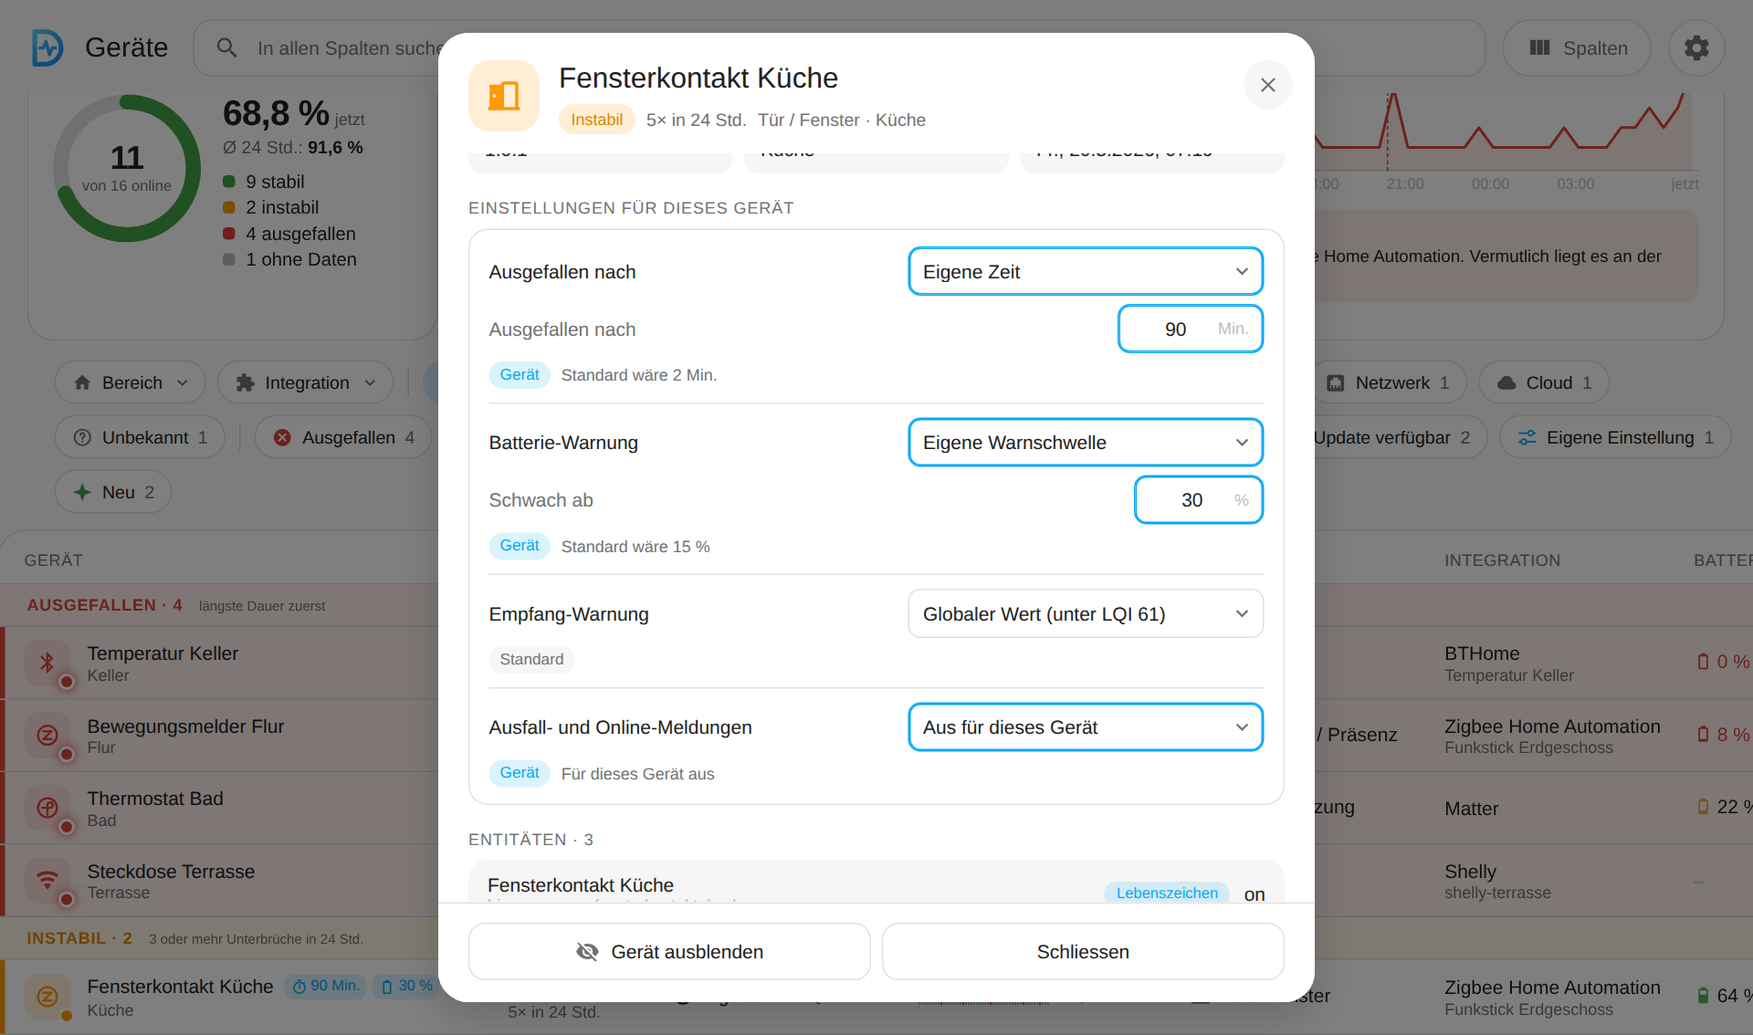
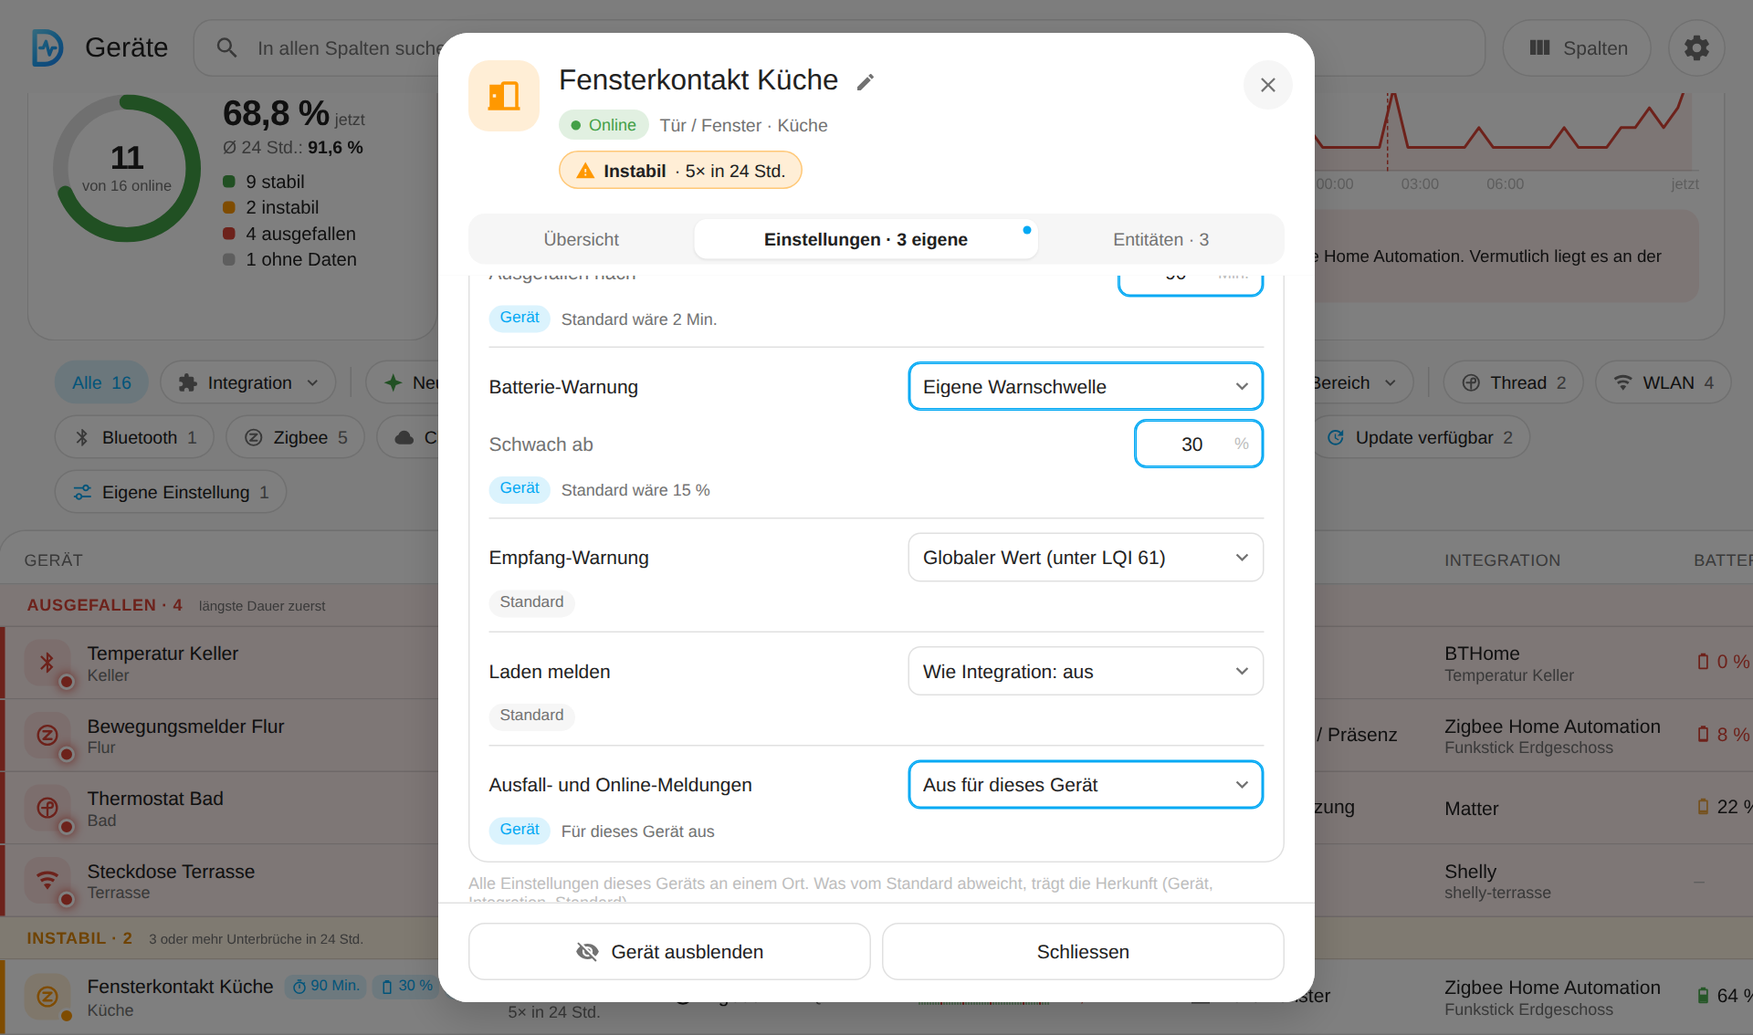
1.37.0: Reiter im Geräte-Popup (Übersicht, Einstellungen, Entitäten)
- Popup mit drei Reitern (Mockups popup-tabs-log-v1, R3): Übersicht zum Lesen
  (Typ und Verbindungsart als Text), Einstellungen (Typ, Verbindungsart und
  alle Einstellungen des Geräts, Zähler eigener Einstellungen mit Punkt) und
  Entitäten. Das Popup öffnet immer auf der Übersicht; die Reiter bleiben
  beim Scrollen unter dem Kopf haften.
- Tests tippen zuerst auf den Reiter; neue Prüfungen für Reiter und Zähler.
- README-Bilder popup, popup-mobile, device-settings neu; CHANGELOG, README,
  HANDOVER nachgeführt.

Claude-Session: https://claude.ai/code/session_01U1q7hu4Br2u4E6fFdEJMgU

diff --git a/custom_components/device_panel/panel/device-panel.js b/custom_components/device_panel/panel/device-panel.js
@@ -514,6 +514,19 @@ function orderConns(entries, order) {
 // von Hand zählt nicht dazu (Entscheid des Nutzers).
 // Seit 0.17.0 zählt auch die Verbindungsart von Hand (Wunsch des Nutzers:
 // so lässt sie sich gesammelt bereinigen).
+// Anzahl eigener Einstellungen des Geräts (Zähler am Reiter "Einstellungen"): jede Wahl, die vom Standard abweicht.
+const devOwnCount = (d) =>
+  [
+    d.type_manual,
+    d.connection_manual,
+    d.offline_setting != null,
+    d.battery_setting != null,
+    d.signal_setting != null,
+    d.charge_setting != null,
+    d.charge_full_setting != null,
+    d.charge_rise_setting != null,
+    d.notify_off || (d.notify_mute_until && Date.parse(d.notify_mute_until) > Date.now()),
+  ].filter(Boolean).length;
 const hasOverride = (d) => d.offline_setting != null || d.battery_setting != null || Boolean(d.notify_off) || Boolean(d.connection_manual) || d.signal_setting != null;
 
 const defaultView = () => ({
@@ -2914,6 +2927,7 @@ class DevicePanel extends HTMLElement {
     if (!dlg || !id) return;
     this._closeStat();
     this._detailId = id;
+    this._devTab = "ov";
     this._detail = null;
     this._renderDevice();
     if (!dlg.open) {
@@ -2921,7 +2935,15 @@ class DevicePanel extends HTMLElement {
       else dlg.setAttribute("open", "");
     }
     dlg.scrollTop = 0;
+    this._stickDevTabs(dlg);
     this._loadDetail(true);
+  }
+
+  // Die Reiter bleiben unter dem Kopf haften: Höhe des Kopfes als Abstand (je nach Warnungen und Namen verschieden;
+  // bei geschlossenem Dialog ist sie 0, darum auch nach dem Öffnen messen).
+  _stickDevTabs(dlg) {
+    const h = dlg.querySelector(".dlg-head")?.offsetHeight;
+    if (h) dlg.style.setProperty("--dev-head-h", `${h}px`);
   }
 
   _closeDevice() {
@@ -3084,8 +3106,8 @@ class DevicePanel extends HTMLElement {
     return `<div class="st-tiles" style="--n:${tiles.length}">${tiles.join("")}</div>`;
   }
 
-  _connSectionHtml(d) {
-    const detail = this._detail?.id === d.id ? this._detail.data : null;
+  // Verbindungsart: im Reiter "Einstellungen" wählbar, in der Übersicht nur Text (seit 1.37.0).
+  _connSelHtml(d, edit) {
     const type = this._connOf(d);
     // Verbindungsart wählbar wie der Typ: erkannt oder von Hand, gilt sofort.
     const auto = this._connAuto(d);
@@ -3095,9 +3117,19 @@ class DevicePanel extends HTMLElement {
     const opts = [`<option value="" ${d.connection_manual ? "" : "selected"}>${escape(autoText)}</option>`]
       .concat(CONN_MANUAL.map((k) => `<option value="${k}" ${d.connection_manual && d.connection === k ? "selected" : ""}>${escape(this._t(CONN[k].key))}</option>`))
       .join("");
-    const connSel = `<label class="typ-sel">${CONN[type].icon(16)}<select data-dlg="conn" aria-label="${escape(this._t("connType"))}">${opts}</select>${mdi("chevronDown", 18)}</label>${
+    if (!edit) {
+      return `<span class="typ-ro">${CONN[type].icon(16)}<span>${escape(this._t(CONN[type].key))}</span></span>${
+        d.connection_manual ? `<small>${escape(this._t("typeManual"))}</small>` : integ ? `<small>${escape(this._t("connByInteg"))}</small>` : ""
+      }`;
+    }
+    return `<label class="typ-sel">${CONN[type].icon(16)}<select data-dlg="conn" aria-label="${escape(this._t("connType"))}">${opts}</select>${mdi("chevronDown", 18)}</label>${
       d.connection_manual ? `<small>${escape(this._t("typeManual"))}</small>` : integ ? `<small>${escape(this._t("connByInteg"))}</small>` : ""
     }${this._connError ? `<small class="warn">${escape(this._t("connSaveError"))} ${escape(this._connError)}</small>` : ""}`;
+  }
+
+  _connSectionHtml(d) {
+    const detail = this._detail?.id === d.id ? this._detail.data : null;
+    const connSel = this._connSelHtml(d, false);
     const tiles = [this._tile(this._t("connType"), connSel)];
     if (d.via) tiles.push(this._tile(this._t("viaLabel"), escape(d.via)));
     // Thread-Rolle und Netz aus der Matter-Diagnose (Zusatzangaben, ohne
@@ -3281,9 +3313,8 @@ class DevicePanel extends HTMLElement {
     return `<div class="dev-set">${html}</div>`;
   }
 
-  _deviceSectionHtml(d) {
-    const text = (v) => (v ? escape(v) : `<span class="t3">–</span>`);
-    const sw = `${text(d.sw_version)}${d.update ? `<small class="upd">${escape(this._t("updateTo", d.update))}</small>` : ""}`;
+  // Typ: im Reiter "Einstellungen" wählbar, in der Übersicht nur Text (seit 1.37.0).
+  _typeSelHtml(d, edit) {
     // Typ wählbar: automatisch erkannt oder von Hand (für Ausschlüsse, wenn
     // die Erkennung danebenliegt). Gilt sofort, ohne "Speichern".
     // Ohne Wahl am Gerät gilt die Integration, wenn dort ein Typ festgelegt ist.
@@ -3292,9 +3323,20 @@ class DevicePanel extends HTMLElement {
     const opts = [`<option value="" ${d.type_manual ? "" : "selected"}>${escape(autoText)}</option>`]
       .concat(TYPE_ORDER.map((k) => `<option value="${k}" ${d.type_manual && d.type === k ? "selected" : ""}>${escape(this._t(typeKey(k)))}</option>`))
       .join("");
-    const typeSel = `<label class="typ-sel">${typeIcon(d.type, 16)}<select data-dlg="type" aria-label="${escape(this._t("typeLabel"))}">${opts}</select>${mdi("chevronDown", 18)}</label>${
+    if (!edit) {
+      return `<span class="typ-ro">${typeIcon(d.type, 16)}<span>${escape(this._t(typeKey(d.type)))}</span></span>${
+        d.type_manual ? `<small>${escape(this._t("typeManual"))}</small>` : integ ? `<small>${escape(this._t("typeByInteg"))}</small>` : ""
+      }`;
+    }
+    return `<label class="typ-sel">${typeIcon(d.type, 16)}<select data-dlg="type" aria-label="${escape(this._t("typeLabel"))}">${opts}</select>${mdi("chevronDown", 18)}</label>${
       d.type_manual ? `<small>${escape(this._t("typeManual"))}</small>` : integ ? `<small>${escape(this._t("typeByInteg"))}</small>` : ""
     }${this._typeError ? `<small class="warn">${escape(this._t("typeSaveError"))} ${escape(this._typeError)}</small>` : ""}`;
+  }
+
+  _deviceSectionHtml(d) {
+    const text = (v) => (v ? escape(v) : `<span class="t3">–</span>`);
+    const sw = `${text(d.sw_version)}${d.update ? `<small class="upd">${escape(this._t("updateTo", d.update))}</small>` : ""}`;
+    const typeSel = this._typeSelHtml(d, false);
     const tiles = [
       this._tile(this._t("typeLabel"), typeSel),
       this._tile(this._t("manufacturer"), text(d.manufacturer)),
@@ -3386,18 +3428,35 @@ class DevicePanel extends HTMLElement {
         ? `<div class="why-tags">${why.map(([k, v]) => `<span class="why">${mdi("alert", 15)}<b>${escape(k)}</b>${v ? ` · ${escape(v)}` : ""}</span>`).join("")}</div>`
         : "";
       const ents = this._entitiesHtml(d);
+      // Reiter (seit 1.37.0, docs/mockups/popup-tabs-log-v1, R3): Übersicht zum Lesen, alle Einstellungen des Geräts
+      // in "Einstellungen" (der Zähler nennt die eigenen), Entitäten für sich.
+      const own = devOwnCount(d);
+      const tab = ["ov", "set", "ent"].includes(this._devTab) ? this._devTab : "ov";
+      const tabs = `<div class="sub-tabs" role="tablist">${[
+        ["ov", this._t("devTabOverview"), false],
+        ["set", own ? this._t("devTabSettingsOwn", own) : this._t("devTabSettings"), own > 0],
+        ["ent", this._t("devTabEntities", ents.count), false],
+      ]
+        .map(([id, label, chg]) => `<button type="button" role="tab" class="sub-tab${id === tab ? " on" : ""}${chg ? " chg" : ""}" data-dlg="tab" data-tab="${id}" aria-selected="${id === tab}">${escape(label)}</button>`)
+        .join("")}</div>`;
+      const body =
+        tab === "set"
+          ? `<h3>${escape(this._t("secTypeConn"))}</h3><div class="tiles">${this._tile(this._t("typeLabel"), this._typeSelHtml(d, true))}${this._tile(this._t("connType"), this._connSelHtml(d, true))}</div>
+          <h3>${escape(this._t("secNotifyDevice"))}</h3>${this._deviceNotifyHtml(d)}
+          <p class="dlg-note small">${escape(this._t("devSettingsNote"))}</p>`
+          : tab === "ent"
+            ? `<h3>${escape(this._t("secEntities", ents.count))}</h3>${ents.html}`
+            : `<h3>${escape(this._t("secStats"))}</h3>${this._statTilesHtml(d)}
+          ${this._aiHtml(d)}
+          <h3>${escape(this._t("secConnection"))}</h3>${this._connSectionHtml(d)}
+          <h3>${escape(this._t("secDevice"))}</h3>${this._deviceSectionHtml(d)}`;
       html = `<div class="dlg-head"><span class="dlg-avatar ${avatar}">${typeIcon(d.type, 28)}</span>
           <div class="dlg-title">${this._nameHtml(d)}
             <div class="dlg-sub">${status}<span>${[this._t(typeKey(d.type)), d.area].filter(Boolean).map(escape).join(" · ")}</span></div>${whyHtml}</div>
           ${close}</div>
         <div class="dlg-quick"><button type="button" class="qbtn" data-dlg="open-device">${mdi("open", 17)}${escape(this._t("openDevicePage"))}</button></div>
-        <div class="dlg-body">
-          <h3>${escape(this._t("secStats"))}</h3>${this._statTilesHtml(d)}
-          ${this._aiHtml(d)}
-          <h3>${escape(this._t("secConnection"))}</h3>${this._connSectionHtml(d)}
-          <h3>${escape(this._t("secDevice"))}</h3>${this._deviceSectionHtml(d)}
-          <h3>${escape(this._t("secNotifyDevice"))}</h3>${this._deviceNotifyHtml(d)}
-          <h3>${escape(this._t("secEntities", ents.count))}</h3>${ents.html}
+        <div class="dev-tabs">${tabs}</div>
+        <div class="dlg-body" role="tabpanel">${body}
           ${this._hideError ? `<div class="dlg-error">${escape(this._t("hideError"))} ${escape(this._hideError)}</div>` : ""}
         </div>
         <div class="dlg-actions two"><button type="button" class="dlg-btn hide-btn" data-dlg="hide">${mdi("eyeOff", 18)}${escape(this._t("hideDevice"))}</button>
@@ -3407,12 +3466,13 @@ class DevicePanel extends HTMLElement {
     const active = this.shadowRoot.activeElement;
     const sel =
       active && dlg.contains(active) && active.dataset?.dlg
-        ? `[data-dlg="${active.dataset.dlg}"]${active.dataset.range ? `[data-range="${active.dataset.range}"]` : ""}${
+        ? `[data-dlg="${active.dataset.dlg}"]${active.dataset.range ? `[data-range="${active.dataset.range}"]` : ""}${active.dataset.tab ? `[data-tab="${active.dataset.tab}"]` : ""}${
             active.dataset.entity ? `[data-entity="${CSS.escape(active.dataset.entity)}"]` : ""
           }`
         : null;
     const scroll = dlg.scrollTop;
     if (!setHtml(dlg, html)) return;
+    this._stickDevTabs(dlg);
     dlg.scrollTop = scroll;
     if (sel) refocus(dlg.querySelector(sel));
   }
@@ -3440,7 +3500,12 @@ class DevicePanel extends HTMLElement {
     else if (action === "rename-cancel") this._renameCancel();
     else if (action === "rename-save") this._renameSave(this.shadowRoot.querySelector('input[data-dlg="rename-input"]')?.value ?? "");
     else if (action === "rename-reset") this._renameSave("");
-    else if (action === "hide") this._hideDevice(this._detailId);
+    else if (action === "tab") {
+      this._devTab = btn.dataset.tab;
+      this._devForce = true;
+      this._renderDevice();
+      this.shadowRoot.querySelector("dialog.device").scrollTop = 0;
+    } else if (action === "hide") this._hideDevice(this._detailId);
     else if (action === "ai") this._aiAssess(this._detailId);
   }
 

diff --git a/custom_components/device_panel/panel/strings.js b/custom_components/device_panel/panel/strings.js
@@ -502,6 +502,13 @@ export const STRINGS = {
     optGroup: "Sammelausfall zusammenfassen",
     optGroupShort: "Ab 3 Geräten gleichzeitig eine Meldung mit vermuteter Ursache statt vieler.",
     secNotifyDevice: "Einstellungen für dieses Gerät",
+    // Reiter im Geräte-Popup (seit 1.37.0, docs/mockups/popup-tabs-log-v1, R3)
+    devTabOverview: "Übersicht",
+    devTabSettings: "Einstellungen",
+    devTabSettingsOwn: (n) => `Einstellungen · ${n} eigene`,
+    devTabEntities: (n) => `Entitäten · ${n}`,
+    secTypeConn: "Typ und Verbindung",
+    devSettingsNote: "Alle Einstellungen dieses Geräts an einem Ort. Was vom Standard abweicht, trägt die Herkunft (Gerät, Integration, Standard).",
     devBattery: "Batterie-Warnung",
     devBatDefault: (pct) => `Globaler Wert (${pct === "off" ? "aus" : `${pct} %`})`,
     devBatOwn: "Eigene Warnschwelle",
@@ -1378,6 +1385,13 @@ export const STRINGS = {
     optGroup: "Combine group outages",
     optGroupShort: "From 3 devices at once one notification with the probable cause instead of many.",
     secNotifyDevice: "Settings for this device",
+    // Tabs in the device pop-up (since 1.37.0, docs/mockups/popup-tabs-log-v1, R3)
+    devTabOverview: "Overview",
+    devTabSettings: "Settings",
+    devTabSettingsOwn: (n) => `Settings · ${n} custom`,
+    devTabEntities: (n) => `Entities · ${n}`,
+    secTypeConn: "Type and connection",
+    devSettingsNote: "All settings of this device in one place. What differs from the default shows its origin (device, integration, default).",
     devBattery: "Battery warning",
     devBatDefault: (pct) => `Global value (${pct === "off" ? "off" : `${pct} %`})`,
     devBatOwn: "Own warning threshold",

diff --git a/custom_components/device_panel/panel/styles.js b/custom_components/device_panel/panel/styles.js
@@ -811,6 +811,11 @@ dialog.stat-dlg::backdrop { background: rgba(0,0,0,0.7); -webkit-backdrop-filter
 .integ-goto { margin: 10px 0 2px; }
 .integ-goto .lnk { font-size: 12px; }
 /* Typ im Geräte-Popup wählbar */
+.typ-ro { display: inline-flex; align-items: center; gap: 8px; color: var(--dp-text); }
+.typ-ro > svg { color: var(--dp-text2); }
+.dev-tabs { position: sticky; top: var(--dev-head-h, 0px); z-index: 3; padding: 4px 22px 8px; background: var(--dp-card); }
+.dev-tabs .sub-tabs { margin: 0; }
+@media (max-width: 700px) { .dev-tabs { padding: 0 16px; } }
 .typ-sel { position: relative; display: inline-flex; align-items: center; gap: 6px; max-width: 100%; color: var(--dp-text); }
 .typ-sel > svg:first-child { color: var(--dp-text2); }
 .typ-sel select { min-width: 0; max-width: 100%; height: 30px; padding: 0 26px 0 8px; border: 1px solid var(--dp-divider); border-radius: 8px;

diff --git a/custom_components/device_panel/const.py b/custom_components/device_panel/const.py
@@ -13,7 +13,7 @@ PANEL_HTML_FILE = "panel.html"
 STATIC_URL_PATH = f"/{DOMAIN}"
 PANEL_STATIC_URL_PATH = f"{STATIC_URL_PATH}/panel"
 # Cache-Buster: bei jeder Änderung unter panel/ von Hand erhöhen.
-PANEL_VERSION = "90"
+PANEL_VERSION = "91"
 PANEL_PAGE_URL = f"{PANEL_STATIC_URL_PATH}/{PANEL_HTML_FILE}?v={PANEL_VERSION}"
 
 # Mitgeliefertes Bild für Push-Meldungen (Companion-App, "icon_url"), wie in

diff --git a/docs/HANDOVER.md b/docs/HANDOVER.md
@@ -3,7 +3,7 @@
 Einstieg für jede neue Claude-Code-Session. Zuerst diese Datei lesen, dann
 `CLAUDE.md`, `docs/CONCEPT.md`, `docs/LEARNINGS.md`, `docs/DESIGN.md`.
 
-## Stand (1.36.0, Einstellungen in fünf Abschnitten)
+## Stand (1.37.0, Einstellungen in fünf Abschnitten)
 
 - Repository `Diegofuego871/ha-device-panel`, nur Branch `main` (siehe
   `CLAUDE.md`, "Git und Releases").
@@ -402,6 +402,11 @@ Einstieg für jede neue Claude-Code-Session. Zuerst diese Datei lesen, dann
    Panel `data-cfull-integ`/`data-crise-integ` im Integrations-Detail (Auswahl mit Stufen), `INTEG_OWN_MAPS`.
    Fehler 1.36.0 (Nutzer, Kühlschrank-Sensor mit Knopfzelle als "lädt" markiert): `ChargeNotifier.charging_of()` nimmt den Stand nur noch,
    wenn `enabled()` (Lademeldung für das Gerät) gilt; die Ladeanzeige des Geräts gilt weiter immer. Test `test_charging_flag_in_list_and_entity_wins`.
+   Reiter im Geräte-Popup `1.37.0` (Nutzer, Mockups `popup-tabs-log-v1`, R3): `_renderDevice()` baut `ov` (Statistik, KI, Verbindung,
+   Gerät; Typ und Verbindungsart nur als Text), `set` (`_typeSelHtml(d, true)`/`_connSelHtml(d, true)` + `_deviceNotifyHtml`) und `ent`
+   (Entitäten); Zustand `_devTab` (öffnet immer auf "ov", Knopf `data-dlg="tab"` mit `data-tab`), Zähler `devOwnCount(d)` am Reiter
+   (Punkt über `.sub-tab.chg`). Tests tippen zuerst `dialog.device [data-tab="set"]`. Hinweis: das geschlossene Popup behält sein
+   HTML, `.sub-tab` darum in Tests immer mit `dialog.settings` einschränken.
    Übersicht mit allen Meldungen `1.34.0` (Nutzer, 2026-10-10): `_monOverviewHtml` hat fünf Zeilen (`lane(...)`: Ausfall,
    Batterie, Laden `data-lane="charge"`, Neue Geräte, Updates); `lane()` nimmt `sub` (Unterreiter, `data-sub` am
    "Ändern"-Knopf, der Handler setzt `st.sub.battery`) und `id`. Strings `laneCharge`, `tlCharge*`, `tlUpd*`, `laneUpd*`.

diff --git a/CHANGELOG.de.md b/CHANGELOG.de.md
@@ -7,6 +7,20 @@ Alle nennenswerten Änderungen an dieser Integration stehen in dieser Datei.
 Das Format folgt [Keep a Changelog](https://keepachangelog.com/de/1.1.0/),
 die Versionsnummern folgen [Semantic Versioning](https://semver.org/lang/de/).
 
+## [1.37.0] - 2026-10-10
+
+Reiter im Geräte-Popup.
+
+### Geändert
+
+- Geräte-Popup mit drei Reitern (Wunsch des Nutzers, Mockups `popup-tabs-log-v1`, R3):
+  "Übersicht", "Einstellungen" und "Entitäten". Die "Übersicht" hat Statistik, Einschätzung,
+  Verbindung und Geräteangaben zum Lesen; Typ und Verbindungsart stehen dort als Text. Alle
+  Einstellungen des Geräts sind im Reiter "Einstellungen": Typ, Verbindungsart und alles unter
+  "Einstellungen für dieses Gerät" (Ausfall, Batterie, Empfang, Laden, Meldungen). Der Reiter
+  zeigt die Zahl der eigenen Einstellungen ("Einstellungen · 2 eigene") mit einem Punkt; die
+  "Entitäten" haben die Liste der Entitäten. Das Popup öffnet immer auf der "Übersicht".
+
 ## [1.36.0] - 2026-10-10
 
 Lademeldung pro Integration mit eigenen Werten.
@@ -1959,6 +1973,7 @@ Erste Vorabversion.
 - Tests gegen ein echtes Home Assistant und Playwright-Suiten für das Panel,
   GitHub Actions für die Prüfungen von HACS und hassfest sowie die Tests.
 
+[1.37.0]: https://github.com/Diegofuego871/ha-device-panel/releases/tag/v1.37.0
 [1.36.0]: https://github.com/Diegofuego871/ha-device-panel/releases/tag/v1.36.0
 [1.35.0]: https://github.com/Diegofuego871/ha-device-panel/releases/tag/v1.35.0
 [1.34.0]: https://github.com/Diegofuego871/ha-device-panel/releases/tag/v1.34.0

diff --git a/CHANGELOG.md b/CHANGELOG.md
@@ -7,6 +7,20 @@ All notable changes to this integration are documented in this file.
 The format is based on [Keep a Changelog](https://keepachangelog.com/en/1.1.0/),
 and this project adheres to [Semantic Versioning](https://semver.org/).
 
+## [1.37.0] - 2026-10-10
+
+Tabs in the device pop-up.
+
+### Changed
+
+- Device pop-up with three tabs (requested by the user, mockups `popup-tabs-log-v1`, R3):
+  "Overview", "Settings" and "Entities". "Overview" holds the statistics, assessment,
+  connection and device details for reading; type and connection type show as text there. All
+  settings of the device are in "Settings": type, connection type and everything under
+  "Settings for this device" (outage, battery, signal, charging, notifications). The tab shows
+  the number of own settings ("Settings · 2 custom") with a dot; "Entities" has the list of
+  entities. The pop-up always opens on "Overview".
+
 ## [1.36.0] - 2026-10-10
 
 Charging notification per integration with its own values.
@@ -1894,6 +1908,7 @@ First pre-release.
 - Tests against a real Home Assistant and Playwright suites for the panel,
   GitHub Actions for HACS/hassfest validation and tests.
 
+[1.37.0]: https://github.com/Diegofuego871/ha-device-panel/releases/tag/v1.37.0
 [1.36.0]: https://github.com/Diegofuego871/ha-device-panel/releases/tag/v1.36.0
 [1.35.0]: https://github.com/Diegofuego871/ha-device-panel/releases/tag/v1.35.0
 [1.34.0]: https://github.com/Diegofuego871/ha-device-panel/releases/tag/v1.34.0

diff --git a/README.de.md b/README.de.md
@@ -43,7 +43,7 @@ Die Prognose rechnet ab dem letzten Batteriewechsel (höchstens ein Jahr) bis zu
 
 ### Einstellungen pro Gerät
 
-Jedes Gerät kann im Popup die Standardwerte übersteuern: eine eigene "Ausgefallen nach"-Zeit (oder keine Überwachung), eine eigene Batterie-Warnschwelle, eine eigene Empfang-Warnung sowie Ausfall- und Online-Meldungen aus oder für 24 Stunden stumm, etwa bei einem Ladegerät, das oft absichtlich offline ist. Jede Zeile zeigt, woher der Wert kommt und was der Standard wäre. Ein Symbol neben dem Namen in der Liste zeigt Geräte mit eigenen Einstellungen.
+Jedes Gerät kann im Reiter "Einstellungen" seines Popups die Standardwerte übersteuern: eine eigene "Ausgefallen nach"-Zeit (oder keine Überwachung), eine eigene Batterie-Warnschwelle, eine eigene Empfang-Warnung sowie Ausfall- und Online-Meldungen aus oder für 24 Stunden stumm, etwa bei einem Ladegerät, das oft absichtlich offline ist. Jede Zeile zeigt, woher der Wert kommt und was der Standard wäre. Ein Symbol neben dem Namen in der Liste zeigt Geräte mit eigenen Einstellungen.
 
 <p align="center"><img src="docs/screenshots/de/device-settings.png" alt="Geräte-Popup: Einstellungen für dieses Gerät mit eigener Zeit, eigener Batterie-Warnschwelle und ausgeschalteten Meldungen" width="720"></p>
 

diff --git a/README.md b/README.md
@@ -43,7 +43,7 @@ The forecast calculates from the last battery change (at most one year) up to th
 
 ### Settings per device
 
-Every device can override the defaults in its pop-up: its own "offline after" time (or no monitoring), its own battery warning threshold, its own signal warning, and outage and online notifications switched off or muted for 24 hours, for example for a charger that is often offline on purpose. Each row shows where the value comes from and what the default would be. A symbol next to the name in the list shows devices with their own settings.
+Every device can override the defaults in the "Settings" tab of its pop-up: its own "offline after" time (or no monitoring), its own battery warning threshold, its own signal warning, and outage and online notifications switched off or muted for 24 hours, for example for a charger that is often offline on purpose. Each row shows where the value comes from and what the default would be. A symbol next to the name in the list shows devices with their own settings.
 
 <p align="center"><img src="docs/screenshots/en/device-settings.png" alt="Device pop-up: settings for this device with own time, own battery warning threshold and notifications off" width="720"></p>
 
